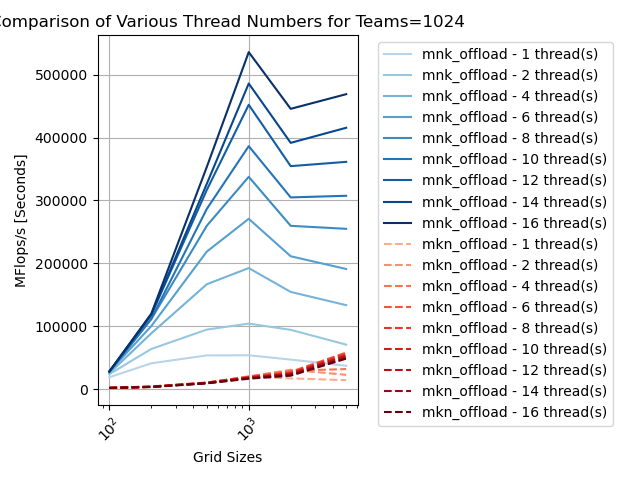
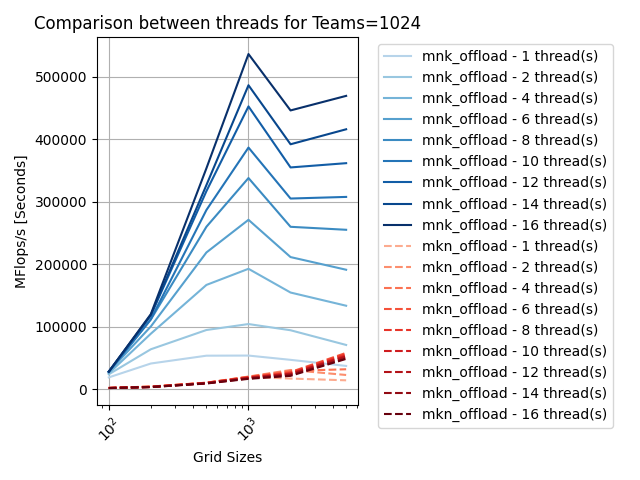
new script files

diff --git a/src/part1/q2plot2_2.py b/src/part1/q2plot2_2.py
@@ -135,40 +135,37 @@ iterations_mkn_offload_18_teams = [  1710.906,
 
 
 # Various team numbers
-team_numbers = [1, 2, 4, 6, 8, 10, 12, 14, 16]
 team_numbers = [64, 128, 256, 512, 700, 1024, 2024, 4096, 8192, 16384]
 
 # Get unique labels for each combination of implementation and team number
-labels_mnk_offload = [f'mnk_offload - {n} team(s)' for n in team_numbers]
-labels_mkn_offload = [f'mkn_offload - {n} team(s)' for n in team_numbers]
+labels_mnk_offload = [f'mnk_offload' for n in team_numbers]
+labels_mkn_offload = [f'mkn_offload' for n in team_numbers]
 labels = labels_mnk_offload + labels_mkn_offload
 
 # Reshape the data for bar plotting
-data_mnk_offload = np.array([iterations_mnk_offload_1_team, iterations_mnk_offload_2_teams, iterations_mnk_offload_4_teams,
-                         iterations_mnk_offload_6_teams, iterations_mnk_offload_8_teams, iterations_mnk_offload_10_teams,
-                         iterations_mnk_offload_12_teams, iterations_mnk_offload_14_teams, iterations_mnk_offload_16_teams, iterations_mnk_offload_18_teams])
-data_mkn_offload = np.array([iterations_mkn_offload_1_team, iterations_mkn_offload_2_teams, iterations_mkn_offload_4_teams,
-                     iterations_mkn_offload_6_teams, iterations_mkn_offload_8_teams, iterations_mkn_offload_10_teams,
-                     iterations_mkn_offload_12_teams, iterations_mkn_offload_14_teams, iterations_mkn_offload_16_teams, iterations_mkn_offload_18_teams])
+data_mnk_offload = np.array([iterations_mnk_offload_1_team[3], iterations_mnk_offload_2_teams[3], iterations_mnk_offload_4_teams[3],
+                         iterations_mnk_offload_6_teams[3], iterations_mnk_offload_8_teams[3], iterations_mnk_offload_10_teams[3],
+                         iterations_mnk_offload_12_teams[3], iterations_mnk_offload_14_teams[3], iterations_mnk_offload_16_teams[3], iterations_mnk_offload_18_teams[3]])
+data_mkn_offload = np.array([iterations_mkn_offload_1_team[3], iterations_mkn_offload_2_teams[3], iterations_mkn_offload_4_teams[3],
+                     iterations_mkn_offload_6_teams[3], iterations_mkn_offload_8_teams[3], iterations_mkn_offload_10_teams[3],
+                     iterations_mkn_offload_12_teams[3], iterations_mkn_offload_14_teams[3], iterations_mkn_offload_16_teams[3], iterations_mkn_offload_18_teams[3]])
 
 
 # Plotting with shades of blue for mnk_offload and shades of red for mkn_offload
 mnk_offload_colors = plt.cm.Blues(np.linspace(0.3, 1, len(team_numbers)))
 mkn_offload_colors = plt.cm.Reds(np.linspace(0.3, 1, len(team_numbers)))
 
-for i in range(len(team_numbers)):
-    plt.plot(grid_sizes, data_mnk_offload[i, :], label=labels_mnk_offload[i], linestyle='-', color=mnk_offload_colors[i])
+plt.plot(team_numbers, data_mnk_offload, label=labels_mnk_offload[0], linestyle='-', color=mnk_offload_colors[0])
+plt.plot(team_numbers, data_mkn_offload, label=labels_mkn_offload[0], linestyle='--', color=mkn_offload_colors[0])
 
-for i in range(len(team_numbers)):
-    plt.plot(grid_sizes, data_mkn_offload[i, :], label=labels_mkn_offload[i], linestyle='--', color=mkn_offload_colors[i])
-
-plt.xlabel('Grid Sizes')
+plt.xlabel('Teams')
 plt.xscale("log")
 plt.ylabel('MFlops/s [Seconds]')
-plt.title('Comparison between teams for Threads=16')
+plt.title('Comparison between teams for Threads=16, Size=1000')
 plt.grid(True)
 plt.legend(bbox_to_anchor=(1.05, 1), loc='upper left')
+plt.xticks(team_numbers, labels=team_numbers)  # Display thread numbers on the x-axis
 plt.xticks(rotation=45)  # Rotate x-axis labels for better visibility
 plt.tight_layout()  # Adjust layout to prevent cropping of labels
-plt.savefig("plots/q2plot2")
+plt.savefig("plots/q2plot2_2")
 plt.show()

diff --git a/src/part1/q2plot1_2.py b/src/part1/q2plot1_2.py
@@ -121,36 +121,35 @@ iterations_mkn_offload_16_threads = [ 1693.511,
 thread_numbers = [1, 2, 4, 6, 8, 10, 12, 14, 16]
 
 # Get unique labels for each combination of implementation and thread number
-labels_mnk_offload = [f'mnk_offload - {n} thread(s)' for n in thread_numbers]
-labels_mkn_offload = [f'mkn_offload - {n} thread(s)' for n in thread_numbers]
+labels_mnk_offload = [f'mnk_offload' for n in thread_numbers]
+labels_mkn_offload = [f'mkn_offload' for n in thread_numbers]
 labels = labels_mnk_offload + labels_mkn_offload
 
 # Reshape the data for bar plotting
-data_mnk_offload = np.array([iterations_mnk_offload_1_thread, iterations_mnk_offload_2_threads, iterations_mnk_offload_4_threads,
-                         iterations_mnk_offload_6_threads, iterations_mnk_offload_8_threads, iterations_mnk_offload_10_threads,
-                         iterations_mnk_offload_12_threads, iterations_mnk_offload_14_threads, iterations_mnk_offload_16_threads])
-data_mkn_offload = np.array([iterations_mkn_offload_1_thread, iterations_mkn_offload_2_threads, iterations_mkn_offload_4_threads,
-                     iterations_mkn_offload_6_threads, iterations_mkn_offload_8_threads, iterations_mkn_offload_10_threads,
-                     iterations_mkn_offload_12_threads, iterations_mkn_offload_14_threads, iterations_mkn_offload_16_threads])
+data_mnk_offload = np.array([iterations_mnk_offload_1_thread[3], iterations_mnk_offload_2_threads[3], iterations_mnk_offload_4_threads[3],
+                         iterations_mnk_offload_6_threads[3], iterations_mnk_offload_8_threads[3], iterations_mnk_offload_10_threads[3],
+                         iterations_mnk_offload_12_threads[3], iterations_mnk_offload_14_threads[3], iterations_mnk_offload_16_threads[3]])
+data_mkn_offload = np.array([iterations_mkn_offload_1_thread[3], iterations_mkn_offload_2_threads[3], iterations_mkn_offload_4_threads[3],
+                     iterations_mkn_offload_6_threads[3], iterations_mkn_offload_8_threads[3], iterations_mkn_offload_10_threads[3],
+                     iterations_mkn_offload_12_threads[3], iterations_mkn_offload_14_threads[3], iterations_mkn_offload_16_threads[3]])
 
 
 # Plotting with shades of blue for mnk_offload and shades of red for mkn_offload
 mnk_offload_colors = plt.cm.Blues(np.linspace(0.3, 1, len(thread_numbers)))
 mkn_offload_colors = plt.cm.Reds(np.linspace(0.3, 1, len(thread_numbers)))
 
-for i in range(len(thread_numbers)):
-    plt.plot(grid_sizes, data_mnk_offload[i, :], label=labels_mnk_offload[i], linestyle='-', color=mnk_offload_colors[i])
+plt.plot(thread_numbers, data_mnk_offload, label=labels_mnk_offload[0], linestyle='-', color=mnk_offload_colors[0])
+plt.plot(thread_numbers, data_mkn_offload, label=labels_mkn_offload[0], linestyle='--', color=mkn_offload_colors[0])
 
-for i in range(len(thread_numbers)):
-    plt.plot(grid_sizes, data_mkn_offload[i, :], label=labels_mkn_offload[i], linestyle='--', color=mkn_offload_colors[i])
-
-plt.xlabel('Grid Sizes')
+plt.xlabel('Thread Amount')
 plt.xscale("log")
+# plt.yscale("log")
 plt.ylabel('MFlops/s [Seconds]')
-plt.title('Comparison between threads for Teams=1024')
+plt.title('Comparison between threads for Teams=1024, Size=1000')
 plt.grid(True)
 plt.legend(bbox_to_anchor=(1.05, 1), loc='upper left')
+plt.xticks(thread_numbers, labels=thread_numbers)  # Display thread numbers on the x-axis
 plt.xticks(rotation=45)  # Rotate x-axis labels for better visibility
 plt.tight_layout()  # Adjust layout to prevent cropping of labels
-plt.savefig("plots/q2plot1")
+plt.savefig("plots/q2plot1_2")
 plt.show()

diff --git a/src/part1/q1plot1.py b/src/part1/q1plot1.py
@@ -13,9 +13,9 @@ mflops_mnk_omp = [14201.118, 16508.646, 15411.208, 16393.493, 10076.269, 4638.62
 mflops_lib = [29556.080, 35145.500, 39062.466, 40403.069, 41299.614, 42005.140]
 
 
-plt.plot(grid_sizes, mflops_mnk_omp, marker='o', linestyle='-', label="mnk_omp", color=plt.cm.Blues(np.linspace(0.3, 1, len(threads)))[1])
-plt.plot(grid_sizes, mflops_lib, marker='o', linestyle='-', label="lib", color=plt.cm.Reds(np.linspace(0.3, 1, len(threads)))[1])
-plt.yscale('log')
+plt.plot(grid_sizes, mflops_mnk_omp, linestyle='-', label="mnk_omp", color=plt.cm.Blues(np.linspace(0.3, 1, len(threads)))[1])
+plt.plot(grid_sizes, mflops_lib, linestyle='-', label="lib", color=plt.cm.Reds(np.linspace(0.3, 1, len(threads)))[1])
+# plt.yscale('log')
 plt.xscale('log')  # Set x-axis to log scale for better visualization
 plt.xlabel('Grid Size')
 plt.ylabel('MFlops/s [Seconds]')

diff --git a/src/part1/q2plot3.py b/src/part1/q2plot3.py
@@ -53,10 +53,10 @@ plt.plot(thread_numbers, data_mnk_offload[0, :], label=labels_mnk_offload[0], li
 
 plt.plot(thread_numbers, data_mkn_offload[0, :], label=labels_mkn_offload[0], linestyle='--', color=mkn_offload_colors[0])
 
-plt.xlabel('Grid Sizes')
+plt.xlabel('Threads')
 plt.xscale("log")
 plt.ylabel('MFlops/s [Seconds]')
-plt.title('Comparison of Various Thread Numbers for Teams=114')
+plt.title('Comparison threads for Teams=114 and Size=1000')
 plt.grid(True)
 plt.legend(bbox_to_anchor=(1.05, 1), loc='upper left')
 plt.xticks(thread_numbers, labels=thread_numbers)  # Display thread numbers on the x-axis
